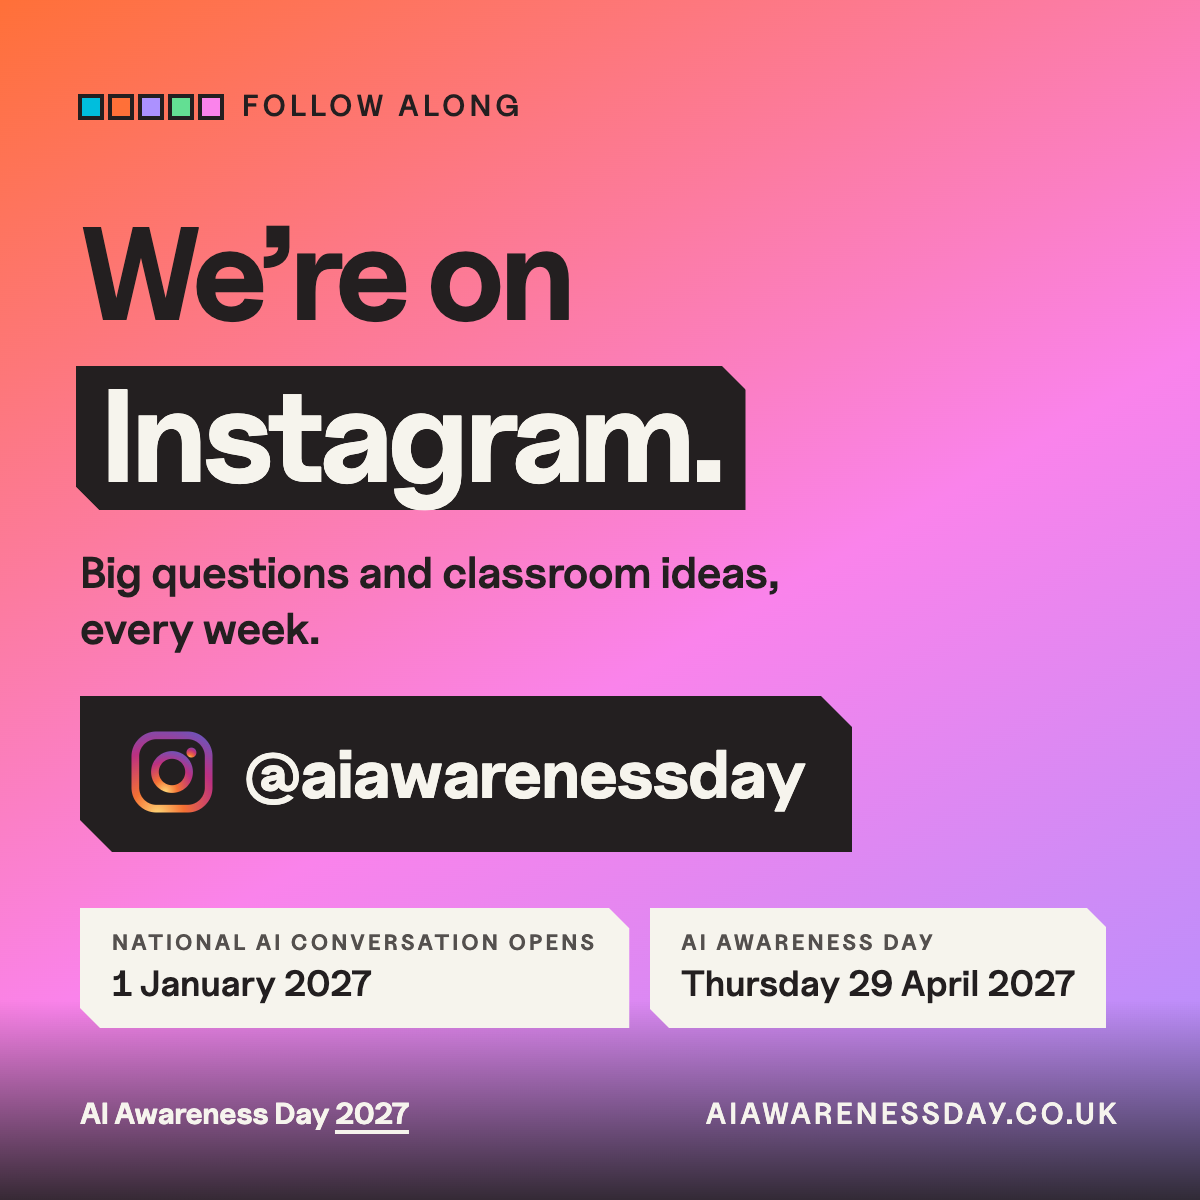
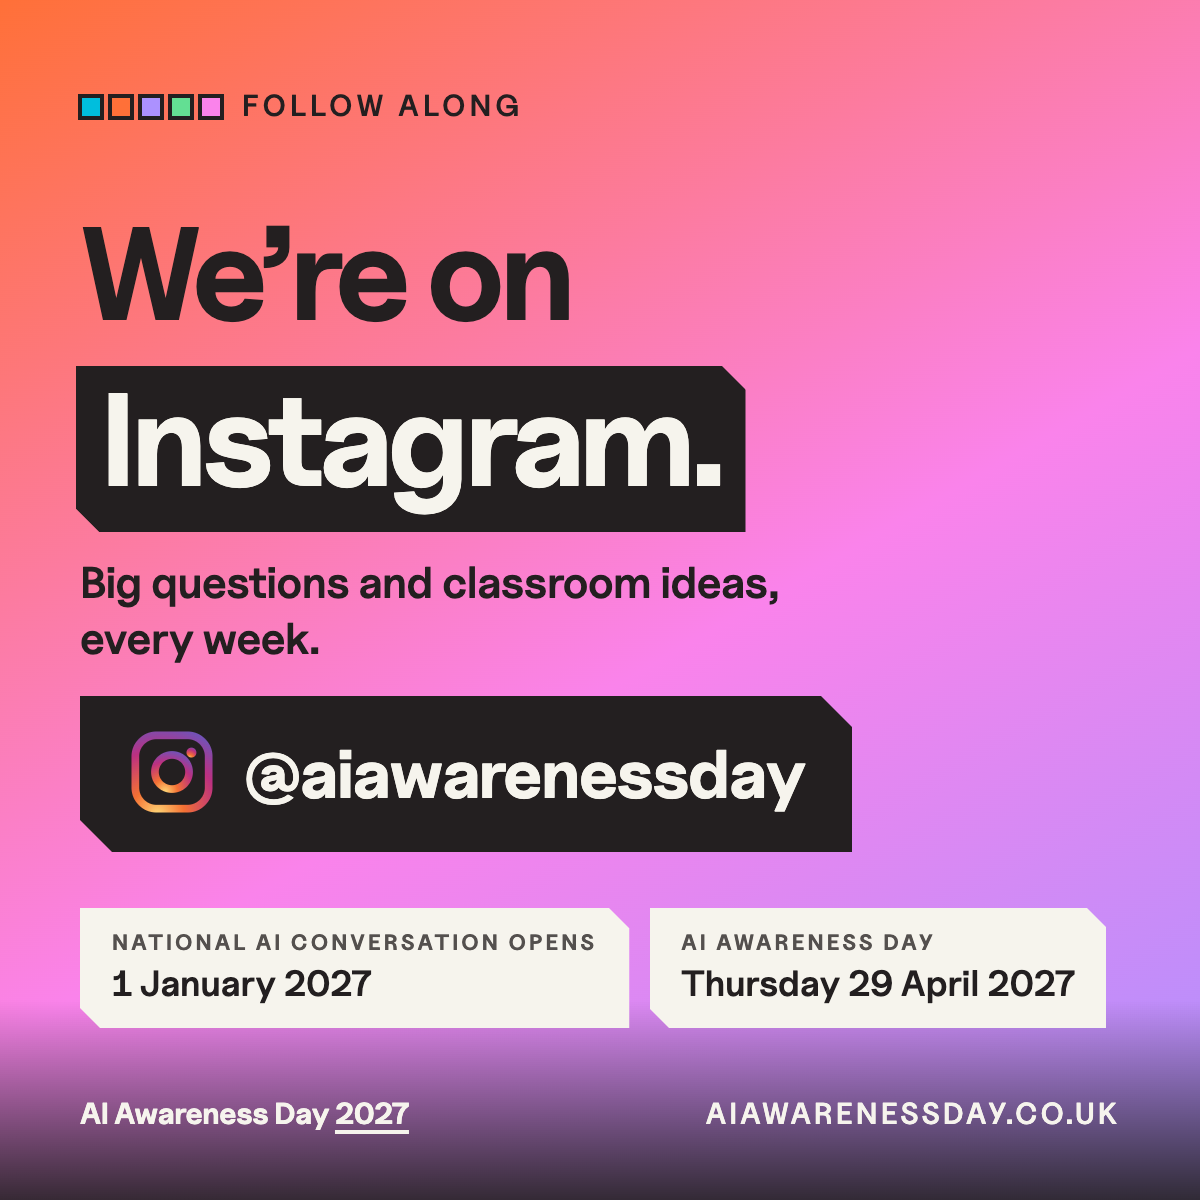
Instagram follow card: the dark panel now holds the descender of the g.

Changed region(s): [[0.0617, 0.3392, 0.6475, 0.555]]

diff --git a/archive/design-kit/ig-follow-gradient.html b/archive/design-kit/ig-follow-gradient.html
@@ -63,9 +63,9 @@ h1, h2 { font-weight: 700; letter-spacing: -.04em; line-height: .96; }
 #li { background: linear-gradient(150deg, #FF7038 0%, #FA83EB 55%, #AC91FF 100%); color: var(--ink); }
 #li .sig i { outline: 2px solid var(--ink); outline-offset: -1px; }
 #li h1 { font-size: 66px; line-height: 1.04; margin-top: 40px; width: 500px; position: relative; z-index: 3; }
-#li h1 mark { background: var(--ink); color: var(--cream); padding: 0 12px 4px; margin-left: -2px; margin-top: 12px; display: inline-block; line-height: 1.04;
+#li h1 mark { background: var(--ink); color: var(--cream); padding: 2px 12px 13px; margin-left: -2px; margin-top: 12px; display: inline-block; line-height: 1.04;
   clip-path: polygon(0 0, calc(100% - 12px) 0, 100% 12px, 100% 100%, 12px 100%, 0 calc(100% - 12px)); }
-#li .lead { color: var(--ink); margin-top: 18px; width: 400px; font-size: 22px; font-weight: 600; line-height: 1.25; letter-spacing: -.01em; position: relative; z-index: 3; }
+#li .lead { color: var(--ink); margin-top: 12px; width: 400px; font-size: 22px; font-weight: 600; line-height: 1.25; letter-spacing: -.01em; position: relative; z-index: 3; }
 #li .handle { position: absolute; z-index: 3; left: 40px; top: 348px; background: var(--ink); color: var(--cream); padding: 16px 24px 18px; font-size: 34px; font-weight: 700; letter-spacing: -.02em; --k: 16px; display: flex; align-items: center; gap: 14px; }
 #li .handle svg { width: 44px; height: 44px; flex: none; display: block; }
 #li .dates { position: absolute; z-index: 3; left: 40px; right: 40px; top: 454px; display: flex; gap: 10px; }
